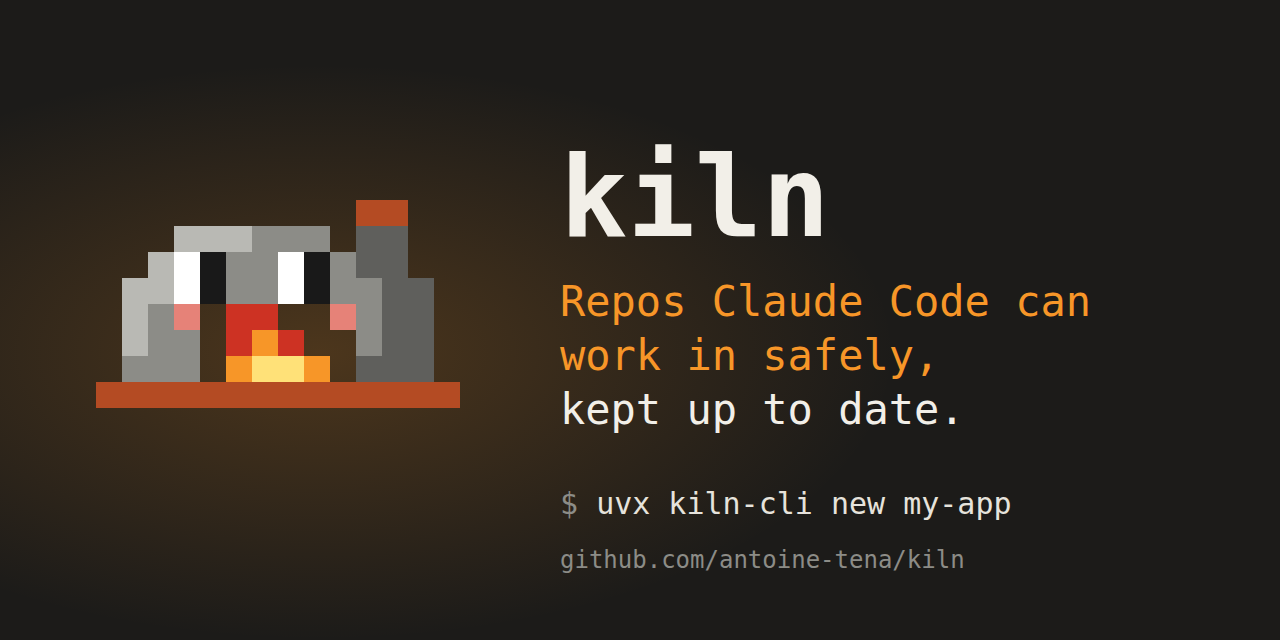
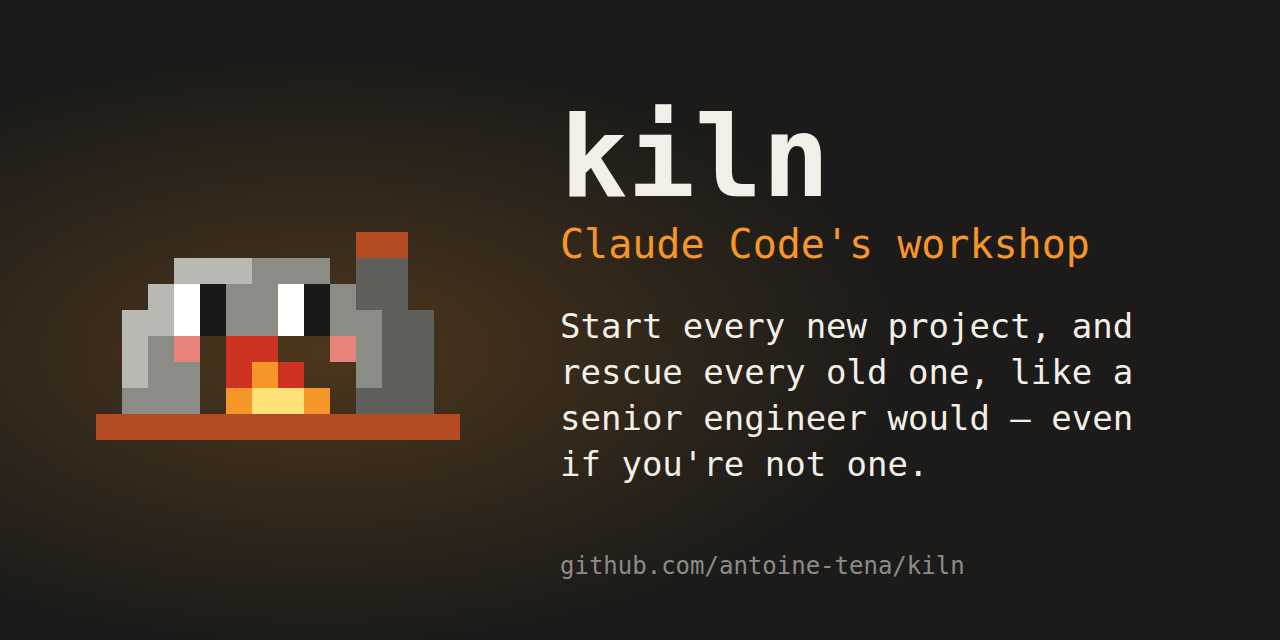
docs: Claude Code's workshop, for old repos as much as new ones
The bare "Repos Claude Code can work in safely, kept up to date." gives way to the
lines antoine chose from the former ones: "Claude Code's workshop", then "Start
every new project, and rescue every old one, like a senior engineer would — even
if you're not one.", and "Make Claude Code build production-grade repos, bring
yours up to that grade, and keep them that way." The same words in the README, the
PyPI summary and the social preview.

The README no longer reads as a generator only: the repo you already have, however
old, comes in through kiln adopt, in the opening paragraph, the highlights, the
quick start and the try-it line; the status says what v0.5.0 brings to such repos.
The style guard allows the tagline's one em dash, and production-grade, antoine's
word.

diff --git a/scripts/screenshots.py b/scripts/screenshots.py
@@ -318,42 +318,43 @@ def logo_svg(size: int = 12) -> str:
     return "\n".join([header, *pixels(size), "</svg>", ""])
 
 
-# What a shared link shows (X, Bluesky, LinkedIn, Slack, Discord, Reddit): the promise in a few
-# big words, readable as a thumbnail. GitHub takes a PNG: `scripts/social_preview.py`.
+# What a shared link shows (X, Bluesky, LinkedIn, Slack, Discord, Reddit): the name, the workshop
+# and the promise, readable as a thumbnail. GitHub takes a PNG: `scripts/social_preview.py`.
+BRAND = "Claude Code's workshop"
 PROMISE = (
-    ("Repos Claude Code can", "#f79628"),
-    ("work in safely,", "#f79628"),
-    ("kept up to date.", "#f2efe8"),
+    "Start every new project, and",
+    "rescue every old one, like a",
+    "senior engineer would — even",
+    "if you're not one.",
 )
 
 
 def social_preview_svg() -> str:
     width, height, left = 1280, 640, 560
     text = f'font-family="{FONT}"'
+    label = escape(f"kiln, {BRAND}: {' '.join(PROMISE)}")
     shapes = [
         f'<svg xmlns="http://www.w3.org/2000/svg" width="{width}" height="{height}" '
-        f'viewBox="0 0 {width} {height}" role="img" aria-label="kiln: repos Claude Code can '
-        'work in safely, kept up to date. uvx kiln-cli new my-app">',
+        f'viewBox="0 0 {width} {height}" role="img" aria-label="{label}">',
         '<defs><radialGradient id="glow" cx="0.25" cy="0.55" r="0.45">'
         '<stop offset="0" stop-color="#f79628" stop-opacity="0.22"/>'
         '<stop offset="1" stop-color="#f79628" stop-opacity="0"/></radialGradient></defs>',
         f'<rect width="{width}" height="{height}" fill="{BACKGROUND}"/>',
         f'<rect width="{width}" height="{height}" fill="url(#glow)"/>',
         '<g shape-rendering="crispEdges">',
-        *pixels(26, left=96, top=200),
+        *pixels(26, left=96, top=232),
         "</g>",
-        f'<text x="{left}" y="236" {text} font-size="112" font-weight="bold" '
+        f'<text x="{left}" y="196" {text} font-size="112" font-weight="bold" '
         'fill="#f2efe8">kiln</text>',
+        f'<text x="{left}" y="258" {text} font-size="40" fill="#f79628">{escape(BRAND)}</text>',
     ]
     shapes += [
-        f'<text x="{left}" y="{316 + 54 * row}" {text} font-size="42" fill="{color}">'
+        f'<text x="{left}" y="{338 + 46 * row}" {text} font-size="34" fill="#f2efe8">'
         f"{escape(line)}</text>"
-        for row, (line, color) in enumerate(PROMISE)
+        for row, line in enumerate(PROMISE)
     ]
     shapes += [
-        f'<text x="{left}" y="514" {text} font-size="30" fill="{PROMPT}">$ '
-        '<tspan fill="#e6e3dc">uvx kiln-cli new my-app</tspan></text>',
-        f'<text x="{left}" y="568" {text} font-size="24" fill="{PROMPT}">'
+        f'<text x="{left}" y="574" {text} font-size="24" fill="{PROMPT}">'
         "github.com/antoine-tena/kiln</text>",
         "</svg>",
         "",

diff --git a/tests/test_docs.py b/tests/test_docs.py
@@ -117,9 +117,10 @@ def test_pypi_shows_the_readme_with_its_images_and_links() -> None:
 
 
 # The marks of a text written by a language model, which readers (Hacker News first) spot and
-# hold against a project: em dashes, list items opened in bold or with an emoji, sales words.
+# hold against a project: em dashes strewn about (one, in the tagline antoine chose, is a style),
+# list items opened in bold or with an emoji, sales words.
 SALES_WORDS = (
-    "seamless", "robust", "powerful", "blazing", "production-grade", "best-in-class",
+    "seamless", "robust", "powerful", "blazing", "best-in-class",
     "cutting-edge", "game-changer", "supercharge", "effortless", "leverage", "unlock", "empower",
     "delve", "crucial", "showcase", "elevate", "revolutioni[sz]e", "world-class",
     "state-of-the-art", "puissant", "révolutionnaire", "incontournable", "sans effort",
@@ -134,7 +135,7 @@ def test_a_readme_reads_as_written_by_a_person(readme: str) -> None:
         if not line.startswith("|")  # an em dash marks an empty table cell
     )  # fmt: skip
 
-    assert "—" not in prose, f"{readme}: an em dash, where a comma or a colon reads better"
+    assert prose.count("—") <= 1, f"{readme}: em dashes, where a comma or a colon reads better"
     assert not re.findall(r"^- (?:\*\*|[\U0001F300-\U0001FAFF☀-➿])", prose, re.M), (
         f"{readme}: a list item opened in bold or with an emoji"
     )

diff --git a/README.fr.md b/README.fr.md
@@ -4,7 +4,11 @@
 
 # kiln
 
-**Des repos où Claude Code travaille sans risque, tenus à jour.**
+*L'atelier de Claude Code*
+
+**Chaque nouveau projet démarré, et chaque vieux repo repris, comme le ferait un ingénieur expérimenté — même sans l'être soi-même.**
+
+kiln donne à Claude Code de quoi construire des repos de qualité production, remettre les vôtres à ce niveau, et les garder ainsi.
 
 [![PyPI](https://img.shields.io/pypi/v/kiln-cli.svg?color=c2551f)](https://pypi.org/project/kiln-cli/)
 [![CI](https://github.com/antoine-tena/kiln/actions/workflows/kiln.yml/badge.svg?branch=develop)](https://github.com/antoine-tena/kiln/actions/workflows/kiln.yml)
@@ -21,14 +25,20 @@
 Claude Code écrit vite. Un repo a besoin de plus pour rester sain : une stack à jour, des règles
 qu'un agent ne peut pas contourner à force d'arguments, une façon de travailler avec git qui
 résiste à un mauvais après-midi, et quelqu'un pour l'empêcher de vieillir au quatre-vingt-dixième
-jour. kiln fait les quatre, pour chacun de vos repos. Il n'appelle lui-même aucune IA et ne
-demande aucune clé d'API : il écrit des fichiers, lance vos outils et les tient à jour.
+jour. kiln apporte les quatre à un nouveau repo en trois questions, et à celui que vous avez
+déjà, si vieux et si sale soit-il : il pose les règles, liste ce qui n'y est pas, et Claude Code
+le résorbe. Puis il tient chaque repo à jour, version après version. kiln lui-même n'appelle
+aucune IA et ne demande aucune clé d'API.
 
 ## Points forts
 
-- Trois questions (ce que vous construisez, sa taille, la langue de l'équipe), puis un repo
-  complet : code, tests, linters, CI, crochets pre-commit, conteneurs et les consignes que
+- Un nouveau repo en trois questions (ce que vous construisez, sa taille, la langue de
+  l'équipe) : code, tests, linters, CI, crochets pre-commit, conteneurs et les consignes que
   Claude lit en premier.
+- Un repo que vous avez déjà, si vieux soit-il : `kiln adopt` le fait suivre kiln sur une
+  branche de travail, sans toucher à aucun fichier existant. Les règles sont vérifiées après
+  chaque modification de Claude, le passif qu'elles relèvent est listé pour que Claude le
+  résorbe, et `kiln check`, `kiln dev` et `kiln status` le servent comme un repo créé par kiln.
 - `kiln update` rejoue le modèle, prend les mises à jour compatibles des dépendances, convertit
   ce qu'une version a renommé et lance vos contrôles avant que vous ne commitiez. `--rehearse`
   l'essaie d'abord sur un clone jetable, `--all` met à jour chaque repo du dossier de code.
@@ -50,17 +60,28 @@ demande aucune clé d'API : il écrit des fichiers, lance vos outils et les tien
 uv tool install kiln-cli     # la commande est kiln ; uv installe Python 3.14 s'il manque
 ```
 
-Ou pour essayer sans rien installer : `uvx kiln-cli new mon-app`. macOS, Linux et Windows par
-WSL ; [pnpm](https://pnpm.io/) pour les fronts JavaScript, [podman](https://podman.io/) pour
-les conteneurs.
+Ou pour essayer sans rien installer : `uvx kiln-cli new mon-app` pour un nouveau repo,
+`uvx kiln-cli adopt` dans un repo que vous avez déjà. macOS, Linux et Windows par WSL ;
+[pnpm](https://pnpm.io/) pour les fronts JavaScript, [podman](https://podman.io/) pour les
+conteneurs.
 
 ## Démarrage
+
+Un nouveau repo :
 
 ```console
 $ kiln new mon-app            # trois questions, puis un dépôt GitHub privé (--no-github : local)
 $ cd mon-app && kiln dev      # les serveurs de la stack, sorties préfixées par service
 $ kiln check                  # ruff, mypy, pytest, ESLint, types, puis charter
 $ claude                      # Claude Code, avec les règles, skills et hooks de kiln
+```
+
+Un repo que vous avez déjà, sur une branche de travail :
+
+```console
+$ git switch -c chore/kiln-adopt
+$ kiln adopt                  # les règles et un backlog, aucun fichier touché ; puis le passif
+$ claude                      # Claude Code le résorbe, avec les règles, skills et hooks de kiln
 ```
 
 ## Ce que vous obtenez
@@ -98,7 +119,9 @@ et macOS, y compris une mise à jour depuis chaque version depuis la v0.3.0, par
 installé. Elle est promue quand la candidate suivante est prête, puis répétée sur un clone de
 chaque repo avant que `kiln update --all` la fusionne, un worktree par repo. Les repos citent les
 workflows de kiln à la version exacte qu'ils suivent : rien ne leur arrive entre deux versions,
-et `kiln update` montre les nouveautés de chaque version qu'il traverse.
+et `kiln update` montre les nouveautés de chaque version qu'il traverse. Un repo repris par
+`kiln adopt` suit les workflows de kiln à la dernière version, que `kiln update` fait avancer
+aussi.
 
 ## La grille
 
@@ -150,7 +173,9 @@ kiln fait tourner chaque jour une poignée de vrais repos, dont un en production
 mainteneur l'écrit avec Claude Code, sous les règles mêmes qu'il donne à vos repos. Il numérote
 ses versions comme Claude Code : en `0.x`, chaque version monte le correctif, les changements
 cassants viennent en tête du [journal](CHANGELOG.md) et `kiln update` les convertit ; la mineure
-marque une étape. Le semver strict commence à la 1.0.
+marque une étape. Le semver strict commence à la 1.0. La suite est pour les repos que vous avez
+déjà : n'importe quel repo Django ou Nuxt noté face à la grille en quelques secondes, puis mis à
+niveau par script partout où un script le peut (v0.5.0).
 
 ## Contribuer
 

diff --git a/README.md b/README.md
@@ -4,7 +4,11 @@
 
 # kiln
 
-**Repos Claude Code can work in safely, kept up to date.**
+*Claude Code's workshop*
+
+**Start every new project, and rescue every old one, like a senior engineer would — even if you're not one.**
+
+Make Claude Code build production-grade repos, bring yours up to that grade, and keep them that way.
 
 [![PyPI](https://img.shields.io/pypi/v/kiln-cli.svg?color=c2551f)](https://pypi.org/project/kiln-cli/)
 [![CI](https://github.com/antoine-tena/kiln/actions/workflows/kiln.yml/badge.svg?branch=develop)](https://github.com/antoine-tena/kiln/actions/workflows/kiln.yml)
@@ -20,13 +24,19 @@
 
 Claude Code writes code fast. A repo needs more than that to stay healthy: a current stack, rules
 an agent cannot argue its way around, a git workflow that survives a bad afternoon, and someone
-to stop it going stale on day ninety. kiln does all four, for every repo you own. It calls no AI
-itself and needs no API key: it writes files, runs your tools and keeps them current.
+to stop it going stale on day ninety. kiln brings all four to a new repo in three questions, and
+to the one you already have, however old and messy: it lays down the rules, lists what falls
+short, and Claude Code works it off. Then it keeps every repo current, release after release.
+kiln itself calls no AI and needs no API key.
 
 ## Highlights
 
-- Three questions (what you build, how big, the team's language), then a complete repo: code,
-  tests, linters, CI, pre-commit hooks, containers and the instructions Claude reads first.
+- A new repo in three questions (what you build, how big, the team's language): code, tests,
+  linters, CI, pre-commit hooks, containers and the instructions Claude reads first.
+- A repo you already have, however old: `kiln adopt` brings it under kiln on a work branch,
+  without touching an existing file. The rules are checked after each edit Claude makes, the
+  debt they find is listed for Claude to work off, and `kiln check`, `kiln dev` and
+  `kiln status` serve it like a repo kiln created.
 - `kiln update` replays the template, takes compatible dependency upgrades, converts what a
   release renamed and runs your checks before you commit. `--rehearse` tries it on a throwaway
   clone first, `--all` updates every repo in your code folder.
@@ -46,17 +56,27 @@ itself and needs no API key: it writes files, runs your tools and keeps them cur
 uv tool install kiln-cli     # the command is kiln; uv fetches Python 3.14 if needed
 ```
 
-Or try it without installing anything: `uvx kiln-cli new my-app`. macOS, Linux and Windows
-through WSL; [pnpm](https://pnpm.io/) for JavaScript fronts, [podman](https://podman.io/) for
-containers.
+Or try it without installing anything: `uvx kiln-cli new my-app` for a new repo,
+`uvx kiln-cli adopt` in one you already have. macOS, Linux and Windows through WSL;
+[pnpm](https://pnpm.io/) for JavaScript fronts, [podman](https://podman.io/) for containers.
 
 ## Quick start
+
+A new repo:
 
 ```console
 $ kiln new my-app            # three questions, then a private GitHub repo (--no-github: local)
 $ cd my-app && kiln dev      # the stack's dev servers, output prefixed by service
 $ kiln check                 # ruff, mypy, pytest, ESLint, type checks, then charter
 $ claude                     # Claude Code, with kiln's rules, skills and hooks loaded
+```
+
+A repo you already have, on a work branch:
+
+```console
+$ git switch -c chore/kiln-adopt
+$ kiln adopt                 # the rules and a backlog, no file touched; then what falls short
+$ claude                     # Claude Code works it off, with kiln's rules, skills and hooks
 ```
 
 ## What you get
@@ -94,7 +114,8 @@ including an update from every release since v0.3.0 through an installed tool. I
 when the next candidate is ready, then rehearsed on a clone of each repo before
 `kiln update --all` merges it, one worktree per repo. Repos quote kiln's workflows at the exact
 release they follow, so nothing reaches them between releases, and `kiln update` shows what is
-new in each release it crosses.
+new in each release it crosses. A repo brought in by `kiln adopt` follows kiln's workflows at the
+latest release, moved forward by `kiln update` too.
 
 ## The grid
 
@@ -144,7 +165,9 @@ kiln runs a handful of real repos every day, one of them in production. One main
 with Claude Code, under the same rules it gives your repos. Releases are numbered like Claude
 Code's: in `0.x`, each release bumps the patch, breaking changes come first in the
 [changelog](CHANGELOG.md) and `kiln update` converts them; the minor marks a milestone. Strict
-semver starts at 1.0.
+semver starts at 1.0. What comes next is for the repos you already have: any Django or Nuxt repo
+scored against the grid in seconds, then brought up to it by script wherever a script can
+(v0.5.0).
 
 ## Contributing
 
